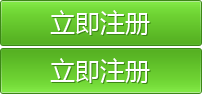
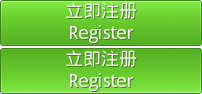
bit change

Changed region(s): [[0.2376, 0.5319, 0.7723, 0.9787], [0.2376, 0.0213, 0.7723, 0.4681]]

diff --git a/App/public/js/common.js b/App/public/js/common.js
@@ -1,3 +1,4 @@
+//@language=jslang/commonjs
 (function($){
     $.fn.extend({
         insertAtCaret: function(myValue){
@@ -182,10 +183,10 @@ function copy_clip(copy){
 		}
 	}
 	if ( copy_clip( copy ) ) {
-		ui.success( "复制成功！请Ctrl+V键粘贴到要加入的页面。" );
+		ui.success( "{:L('复制成功！请Ctrl+V键粘贴到要加入的页面。')}" );
 		return true;
 	} else {
-		ui.error("你的浏览器不支持脚本复制或你拒绝了浏览器安全确认，请尝试手动[Ctrl+C]复制。");
+		ui.error("{:L('你的浏览器不支持脚本复制或你拒绝了浏览器安全确认，请尝试手动[Ctrl+C]复制。')}");
 		return false;
 	}
 }
@@ -193,14 +194,14 @@ function copy_clip(copy){
 //举报
 function denounce(from,aid,content,fuid,uid){
 	$.post(U('home/Widget/denounce'),{from:from,aid:aid,content:content,fuid:fuid,uid:uid},function(txt){
-		ui.box.show(txt, {title:'举报',closeable:true});
+		ui.box.show(txt, {title:'{:L('举报')}',closeable:true});
 	});
 }
 
 //设置黑名单
 function setBlacklist(uid,type){
 	$.post(U('home/Account/setBlackList') , {uid:uid,type:type} ,function(txt){
-		ui.success('设置成功');
+		ui.success('{:L('设置成功')}');
 		location.reload();
 	})
 }
@@ -211,7 +212,7 @@ function dofollow(type,target,uid){
 	$('#follow_state').html( '<img src="'+ _THEME_+'/images/icon_waiting.gif" width="15">' );
 	$.post( U('weibo/Operate/follow') ,{uid:uid,type:type},function(txt){
 		if(txt=='14'){
-			ui.error('关注人数已超过设置最大数量，关注失败！');
+			ui.error('{:L('关注人数已超过设置最大数量，关注失败！')}');
 		}
 		if(txt=='12'){
 			html = followState('havefollow');
@@ -220,7 +221,7 @@ function dofollow(type,target,uid){
 			html = followState('eachfollow');
 			followGroupSelectorBox(uid);
 		}else if(txt=='00'){
-			ui.error('对方不允许你关注');
+			ui.error('{:L('对方不允许你关注')}');
 			html = followState('unfollow',target,uid);
 		}else{
 			html = followState();
@@ -243,7 +244,7 @@ function dolistfollow(type,target,uid){
 			html = followState('eachfollow',target,uid);
 			followGroupSelectorBox(uid);
 		}else if(txt=='00'){
-			ui.error('对方不允许你关注');
+			ui.error('{:L('对方不允许你关注')}');
 			html = followState('unfollow',target,uid);
 		}else{
 			html = followState('',target,uid);
@@ -257,11 +258,11 @@ function followState(type,target,uid){
 	target = target || 'dofollow';
 	uid    = uid    || _UID_;
 	if(type=='havefollow'){
-		html = '<div class="btn_relation"><span>已关注&nbsp;&nbsp;|&nbsp;&nbsp;</span><a href="javascript:void(0);" onclick="'+target+'(\'unflollow\',\''+target+'\','+uid+')">取消</a></div>';
+		html = '<div class="btn_relation"><span>{:L('已关注')}&nbsp;&nbsp;|&nbsp;&nbsp;</span><a href="javascript:void(0);" onclick="'+target+'(\'unflollow\',\''+target+'\','+uid+')">{:L('取消')}</a></div>';
 	}else if(type=='eachfollow'){
-		html = '<div class="btn_relation btn_relation2"><span>互相关注&nbsp;&nbsp;|&nbsp;&nbsp;</span><a href="javascript:void(0);" onclick="'+target+'(\'unflollow\',\''+target+'\','+uid+')">取消</a></div>';
+		html = '<div class="btn_relation btn_relation2"><span>{:L('互相关注')}&nbsp;&nbsp;|&nbsp;&nbsp;</span><a href="javascript:void(0);" onclick="'+target+'(\'unflollow\',\''+target+'\','+uid+')">{:L('取消')}</a></div>';
 	}else{
-		html = '<a class="add_atn" href="javascript:void(0);" onclick="'+target+'(\'dofollow\',\''+target+'\','+uid+')">加关注</a>';
+		html = '<a class="add_atn" href="javascript:void(0);" onclick="'+target+'(\'dofollow\',\''+target+'\','+uid+')">{:L('加关注')}</a>';
 	}
 	return html;
 }
@@ -278,7 +279,7 @@ function followGroupSelector(fid){
 
 //好友分组选择-弹窗
 function followGroupSelectorBox(fid){
-	ui.box.load( U('weibo/FollowGroup/selectorBox')+'&fid='+fid,{title:'设置分组'});
+	ui.box.load( U('weibo/FollowGroup/selectorBox')+'&fid='+fid,{title:'{:L('设置分组')}'});
 }
 
 //关闭好友分组选择
@@ -289,7 +290,7 @@ function followGroupSelectorClose(fid){
 
 //添加关注分组
 function setFollowGroupTab(gid){
-	var title = gid?'修改分组':'创建分组';
+	var title = gid?'{:L('修改分组')}':'{:L('创建分组')}';
 	gid = gid?'&gid='+gid:'';
 	ui.box.load( U('weibo/FollowGroup/setGroupTab') + gid,{title:title});
 }
@@ -298,7 +299,7 @@ function setFollowGroupTab(gid){
 function addFollowTopic(){
 	var name = $("input[name='quick_name']").val();
 	if(name==''){
-		ui.error('请输入话题名称');
+		ui.error('{:L('请输入话题名称')}');
 		return false;
 	}
 	$.post(U('weibo/operate/followtopic'),{name:name},function(txt){
@@ -306,14 +307,14 @@ function addFollowTopic(){
 		if(txt.code=='12'){
 			$("input[name='quick_name']").val('');
 			$('.quick_win').hide();
-			ui.success("添加关注话题成功");
+			ui.success("{:('添加关注话题成功')}");
 			window.location.reload(true);
 			//var html = '<li onmouseover="$(this).find(\'.del\').show()" onmouseout="$(this).find(\'.del\').hide()"><a class="del right" title="删除" href="javascript:void(0)" onclick="deleteFollowTopic(this,\''+txt.topicId+'\')"></a><a href="'+U('home/user/search',['k='+txt.name])+'">'+txt.name+'</a></li>';
 			//$("ul[rel='followTopicArea']").append(html);
 		}else if(txt.code=='11'){
-			alert('已关注过此话题');
+			alert('{:L('已关注过此话题')}');
 		}else{
-			alert('关注失败');
+			alert('{:L('关注失败')}');
 		}
 
 	});
@@ -330,7 +331,7 @@ ui = window.ui ||{
 	success:function(message,error){
 		var style = (error==1)?"html_clew_box clew_error ":"html_clew_box";
 		var html   =   '<div class="" id="ui_messageBox" style="display:none;z-index:1000001">'
-					   + '<div class="html_clew_box_close"><a href="javascript:void(0)" onclick="$(this).parents(\'.html_clew_box\').hide()" title="关闭">关闭</a></div>'
+					   + '<div class="html_clew_box_close"><a href="javascript:void(0)" onclick="$(this).parents(\'.html_clew_box\').hide()" title="{:L('关闭')}">{:L('关闭')}</a></div>'
 					   + '<div class="html_clew_box_con" id="ui_messageContent">&nbsp;</div></div>';
 		var init      =  0;
 		
@@ -381,7 +382,7 @@ ui = window.ui ||{
 
 	load:function(){
 		var init = 0
-		var loadingBox = '<div class="html_clew_box" id="ui_loading" style="display:none"><div class="html_clew_box_con"><span class="ico_waiting">加载中……</span></div></div>';
+		var loadingBox = '<div class="html_clew_box" id="ui_loading" style="display:none"><div class="html_clew_box_con"><span class="ico_waiting">{:L('加载中')}……</span></div></div>';
 		if( !init ){
 			$('body').append( loadingBox );
 			init = 1;
@@ -410,8 +411,8 @@ ui = window.ui ||{
 	
 	confirm:function(o,text){
 		var callback = $(o).attr('callback');
-		text = text || '确定要做此项操作吗？';
-		this.html = '<div id="ts_ui_confirm" class="ts_confirm"><dl><a class="del" href="javascript:void(0)" onclick="$(\'.ts_confirm\').remove()"></a><dt class="txt"></dt><dd><input type="button" value="确定"  class="btn_b mr5"><input type="button" value="取消"  class="btn_w"></dd></dl></div>';
+		text = text || '{:L('确定要做此项操作吗？')}';
+		this.html = '<div id="ts_ui_confirm" class="ts_confirm"><dl><a class="del" href="javascript:void(0)" onclick="$(\'.ts_confirm\').remove()"></a><dt class="txt"></dt><dd><input type="button" value="{:L('确定')}"  class="btn_b mr5"><input type="button" value="{:L('取消')}"  class="btn_w"></dd></dl></div>';
 		// 修改原因: ts_ui_confirm .btn_b按钮会重复提交
 		//if( $('#ts_ui_confirm').html()==null ){
 			$('body').append(this.html);
@@ -448,7 +449,7 @@ ui = window.ui ||{
 				 + '<div style="position: relative; height: 7px; line-height: 3px;z-index:99">'
 				 + '<img src="' + _THEME_ + '/images/zw_img.gif" style="margin-left: 10px; position: absolute;" class="talkPop_arrow"></div>'
 				 + '<div class="talkPop_box">'
-				 + '<div class="close" style="height:30px;line-height:30px;background-color:#F8FAFC;padding:0 10px;position:relative;*width:420px"><a onclick=" $(\'#emotions\').remove()" class="del" href="javascript:void(0)" title="关闭"> </a><span>常用表情</span></div>'
+				 + '<div class="close" style="height:30px;line-height:30px;background-color:#F8FAFC;padding:0 10px;position:relative;*width:420px"><a onclick=" $(\'#emotions\').remove()" class="del" href="javascript:void(0)" title="{:L('关闭')}"> </a><span>{:L('常用表情')}</span></div>'
 				 + '<div class="faces_box" id="emot_content"><img src="'+ _THEME_+'/images/icon_waiting.gif" width="20" class="alM"></div></div></div>';
 		target_set = $o.attr('target_set');
 		$body.append(this.html);
@@ -493,14 +494,14 @@ ui = window.ui ||{
 		    var messageList =  $('.message_list_container');
 		    var messageSmallDiv = $('#message_list_container');
 		    var list = {
-                             comment:{url:U('home/user/comments'),name:"我的评论"},
-                             atme:{url:U('home/user/atme'),name:"新@提到我"},
-                             message:{url:U('home/message/index'),name:"新的私信"},
-                             group_atme:{url:U('group/index/atme'),name:"群内@我的"},
-                             group_comment:{url:U('group/index/comment'),name:"群内评论"},
-                             group_bbs:{url:U('group/index/bbsNotify'),name:"群内帖子消息"},
-                             notify:{url:U('home/message/notify'),name:"系统通知"},
-                             appmessage:{url:U('home/message/appmessage'),name:"系统消息"}
+                             comment:{url:U('home/user/comments'),name:"{:L('我的评论')}"},
+                             atme:{url:U('home/user/atme'),name:"{:L('新@提到我')}"},
+                             message:{url:U('home/message/index'),name:"{:L('新的私信')}"},
+                             group_atme:{url:U('group/index/atme'),name:"{:L('群内@我的')}"},
+                             group_comment:{url:U('group/index/comment'),name:"{:L('群内评论')}"},
+                             group_bbs:{url:U('group/index/bbsNotify'),name:"{:L('群内帖子消息')}"},
+                             notify:{url:U('home/message/notify'),name:"{:L('系统通知')}"},
+                             appmessage:{url:U('home/message/appmessage'),name:"{:L('系统消息')}"}
                              };
 		    messageList.html("");
 			if(txt.total && txt.total!="0"){
@@ -509,11 +510,11 @@ ui = window.ui ||{
 			        if(txt[one] != undefined && parseInt(txt[one]) >0){
 			            //<li>两条新消息,<a href="#">查看消息</a></li>
 			            var newLi = document.createElement('li');
-			            var newNode = document.createTextNode(txt[one]+"条"+list[one].name+"，");
+			            var newNode = document.createTextNode(txt[one]+"{:L('条')}"+list[one].name+"，");
 			            var newA = document.createElement('a');
 			            newA.href = list[one].url;
 			            newA.target = "";
-			            newA.innerHTML="查看消息";
+			            newA.innerHTML="{:L('查看消息')}";
 			            newA.className="message_list_"+one;
 			            
 			            newLi.appendChild(newNode);
@@ -566,17 +567,17 @@ ui = window.ui ||{
 	},
 	getarea:function(prefix,init_style,init_p,init_c){
 		var style = (init_style)?'class="'+init_style+'"':'';
-		var html = '<select name="'+prefix+'_province" '+style+'><option>省/直辖市</option></select> '+
-				'<select name="'+prefix+'_city" '+style+' style="width:180px"><option value=0>不限</option></select>';
+		var html = '<select name="'+prefix+'_province" '+style+'><option>{:L('省/直辖市')}</option></select> '+
+				'<select name="'+prefix+'_city" '+style+' style="width:180px"><option value=0>{:L('不限')}</option></select>';
 		document.write(html);
 		// _PUBLIC_+'/js/area.js'
 		$.getJSON(U('home/Public/getArea'), function(json){
 			json = json.provinces;
-			var province ='<option>省/直辖市</option>';
+			var province ='<option>{:L('省/直辖市')}</option>';
 			$.each(json,function(i,n){
 				var pselected='';
 				var cselected='';
-				var city='<option>不限</option>';
+				var city='<option>{:L('不限')}</option>';
 				if(n.id==init_p){
 					 pselected = 'selected="true"';
 					 $.each(n.citys,function(j,m){
@@ -591,7 +592,7 @@ ui = window.ui ||{
 			});
 			
 			$("select[name='"+prefix+"_province']").live('change',function(){
-				var city='<option>不限</option>';
+				var city='<option>{:L('不限')}</option>';
 				var handle =  $(this).find('option:selected').attr('rel');
 				if( handle ){
 					var t =  json[handle].citys;

diff --git a/App/public/themes/newstyle/header.html b/App/public/themes/newstyle/header.html
@@ -114,6 +114,8 @@
           </div>
         </li>
         <php>}</php>
+        <?php
+        /*
         <li id="iframe_app_li" class="header_dropdown"><a href="{:U('home/Index/addapp')}" class="application">{:L('app')}<span class="ico_arrow"></span></a>
           <div id="iframe_app" class="dropmenu"><iframe id="iframe_a" style="position:absolute;_filter:alpha(opacity=0);opacity=0;z-index:-1;width:100%;height:100%;top:0;left:0;scrolling:no;" frameborder="0" src="about:blank"></iframe>
             <dl class="app_list">
@@ -140,6 +142,8 @@
                 </dl>
           </div>
         </li>
+        */
+        ?>
         <li><a href="{:U('home/index/switch_lan')}" class="fb14">{:L('change_language')}</a></li>
   		{:Addons::hook('header_topnav', array('menu' => & $header_topnav))}
   		<volist name="header_topnav" id="vo">
@@ -205,6 +209,12 @@
       <div class="logo"><a href="{:U('home/Index')}"><img src="<php>echo $ts['site']['site_logo']?$ts['site']['site_logo']:__THEME__.'/images/logo.png';</php>" style="_filter:progid:DXImageTransform.Microsoft.AlphaImageLoader(enabled=true,sizingMethod=crop)" /></a></div>
       <div id="indt" class="nav_sub br3">
         <p>
+	      <a href="{:__ROOT__}/?language=<?php
+			if(isset($_SESSION['language'])&&$_SESSION['language']=='en')
+				echo 'zh_cn';
+			else
+				echo 'en';
+	      ?>" class="fb14">{:L('change_language')}</a>&nbsp;|&nbsp;
       	<eq name="ts['site']['site_anonymous_square']" value="1">
       	  <a href="{:U('home/Square')}">{:L('微博广场')}</a>&nbsp;|&nbsp;
       	</eq>
@@ -286,5 +296,6 @@ $(function() {
     $('#iframe_a').css('width', app_width);
     $('#iframe_a').css('height', app_height);
   });
+  $('.btn_blog_c, .btn_blog_s, .btn_photo_c, .btn_photo_s, .btn_group_c, .btn_group_s, .btn_vote_c, .btn_event_c, .btn_poster_c, .btn_faq_c, .btn_forum_c, .btn_company_c, .btn_company_c:hover').css('background-image','url(public/themes/newstyle/images/create_btn.php/<?php echo time() ?>.png)');
 });
 </script>

diff --git a/App/public/themes/newstyle/layout.css b/App/public/themes/newstyle/layout.css
@@ -753,8 +753,8 @@ top:53px}
 .LogList{margin:0}
 .LogList ul li{padding:10px 0}
 .LogList .edit li{margin-bottom:10px;*zoom:1}
-.LogList label{float:left;display:block;width:40px;text-align:right;padding-right:10px;line-height:25px}
-.LogList .c1{margin-left:50px;_float:left;_margin:0}
+.LogList label{float:left;display:block;width:50px;text-align:right;padding-right:10px;line-height:25px}
+.LogList .c1{margin-left:60px;_float:left;_margin:0}
 .gc_list{margin:0}
 .groupBox .talkBox{margin:0;height:140px}
 
@@ -1067,7 +1067,7 @@ a.vote_but{border:1px solid #ddd;padding:0 5px;height:20px;line-height:20px;colo
 .applymbbox .listappbox p.url{ width:150px; display:block;}
 .applymbbox .listappbox p.name{ width:150px; display:block;}
 /*发布按钮*/
-.btn_blog_c,.btn_blog_s,.btn_photo_c,.btn_photo_s,.btn_group_c,.btn_group_s,.btn_vote_c,.btn_event_c,.btn_poster_c,.btn_faq_c,.btn_forum_c,.btn_company_c,.btn_company_c:hover{background:url(images/create_btn.png) no-repeat left top;display:block;}
+.btn_blog_c,.btn_blog_s,.btn_photo_c,.btn_photo_s,.btn_group_c,.btn_group_s,.btn_vote_c,.btn_event_c,.btn_poster_c,.btn_faq_c,.btn_forum_c,.btn_company_c,.btn_company_c:hover{background:url(images/create_btn.php) no-repeat left top;display:block;}
 .btn_blog_c,.btn_blog_c:hover{background-position:0 -343px;width:220px;height:52px}
 .btn_forum_c,.btn_forum_c:hover{background-position:0 -798px;width:220px;height:52px}
 .btn_blog_s,.btn_blog_s:hover{background-position:0 0;width:160px;height:52px}

diff --git a/App/public/themes/newstyle/apps.html b/App/public/themes/newstyle/apps.html
@@ -52,24 +52,38 @@
   </div>
   <div class="celerity_menu app_line">
   	<ul>
+  	<?php
+  	function myLang($txt){
+  		if(isset($_SESSION['language'])&&'en'==$_SESSION['language'])
+  		{
+  			static $_L=array(
+  				'日志'=>'Blog',
+  			);
+  			return $_L[$txt];
+  		}else
+  			return $txt;
+  	}
+  	?>
   	    <volist name="install_app" id="vo">
   	        <php>if(empty($vo['app_alias'])) continue;</php>
   	        <li>
 				<a href="{$vo.app_entry}" title="{$vo.description}" class="user_app_link" >
-				<php>if($vo['sidebar_entry']){</php>
+				<php>/*if($vo['sidebar_entry']){</php>
 				    <span class="user_app_entry" target="_blank" url="{$vo.sidebar_entry}">{$vo.sidebar_title}</span>
-                <php>}</php>
-                <img src="{:getAppIconUrl($vo['icon_url'],$vo['app_name']);}" class="user_app_icon" />{$vo.app_alias|getShort=###,5,'...'}</a>
-
+                <php>}*/</php>
+                <img src="{:getAppIconUrl($vo['icon_url'],$vo['app_name']);}" class="user_app_icon" />{:getShort(myLang($vo['app_alias']),5,'...')}</a>
   	        </li>
   	    </volist>
   	</ul>
   </div>
-    
+    <?php
+    /*
 	<div class="app_add app_line">
     <span class="right"><span class="ico_app_manage"></span><a href="{:U('home/Index/editapp')}">{:L('管理')}</a></span>
     <span><span class="ico_app_add"></span><a href="{:U('home/Index/addapp')}">{:L('add')}</a></span>
     </div>
+    */
+    ?>
 
     {:Addons::hook('home_index_left_middle')}
 

diff --git a/App/public/js/tbox/box.js b/App/public/js/tbox/box.js
@@ -1,4 +1,5 @@
 // ThinkSNS ui.box
+//#language=JsLang/box
 
 jQuery.extend(ui, {
 	box:function(element, options){
@@ -25,9 +26,9 @@ jQuery.extend(ui.box, {
 		if( !this.inited ){
 			$('body').prepend( this.WRAPPER );
 		}
-
+		
 		if(option.title)
-			$('#tsbox').find('.title-bar').html("<h2>"+option.title+"</h2><a href='#' class='close'></a>");
+			$('#tsbox').find('.title-bar').html("<h2>"+L(option.title)+"</h2><a href='#' class='close'></a>");
 		
 		$('#tsbox').show();
 		//$('#tsbox').css({

diff --git a/App/public/themes/newstyle/success.html b/App/public/themes/newstyle/success.html
@@ -1,3 +1,4 @@
+{~trace()}
 <php>if($isAdmin != '1'){</php>
 <include file="__THEME__/header" />
 <php>}else {</php>

diff --git a/App/public/themes/newstyle/images/create_btn.php b/App/public/themes/newstyle/images/create_btn.php
@@ -1,0 +1,14 @@
+<?php
+session_start();
+header("Expires: Mon, 26 Jul 1997 05:00:00 GMT");
+header("Last-Modified: " . gmdate("D, d M Y H:i:s") . "GMT");
+header("Cache-Control: no-cache, must-revalidate");
+header("Pragma: no-cache");
+if(isset($_SESSION['language'])&&$_SESSION['language']=='en')
+{
+	readfile('create_btn_en.png');
+}else
+{
+	readfile('create_btn.png');
+}
+?>
